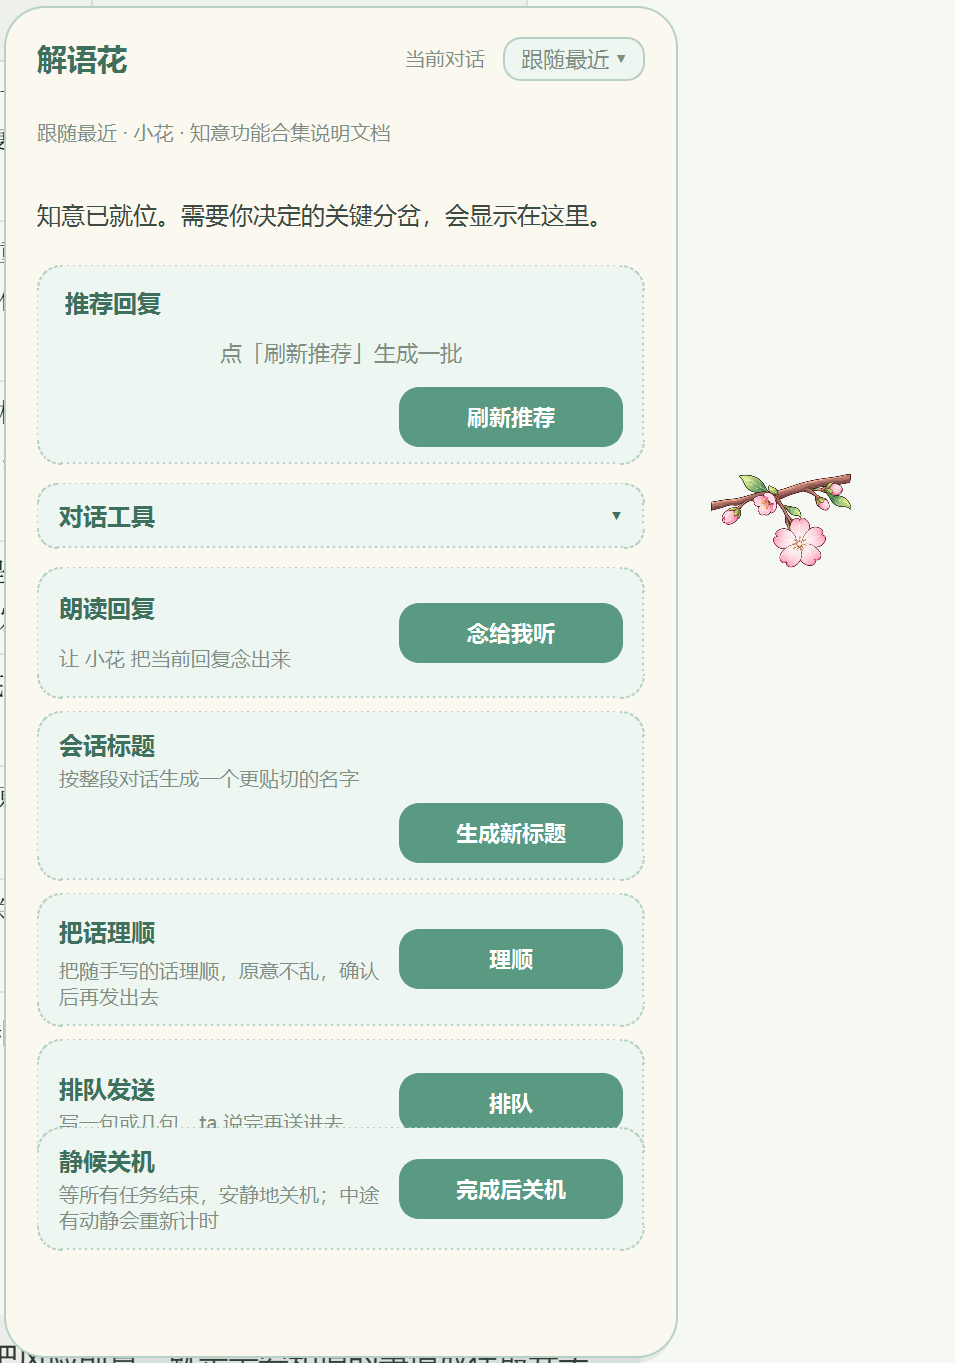
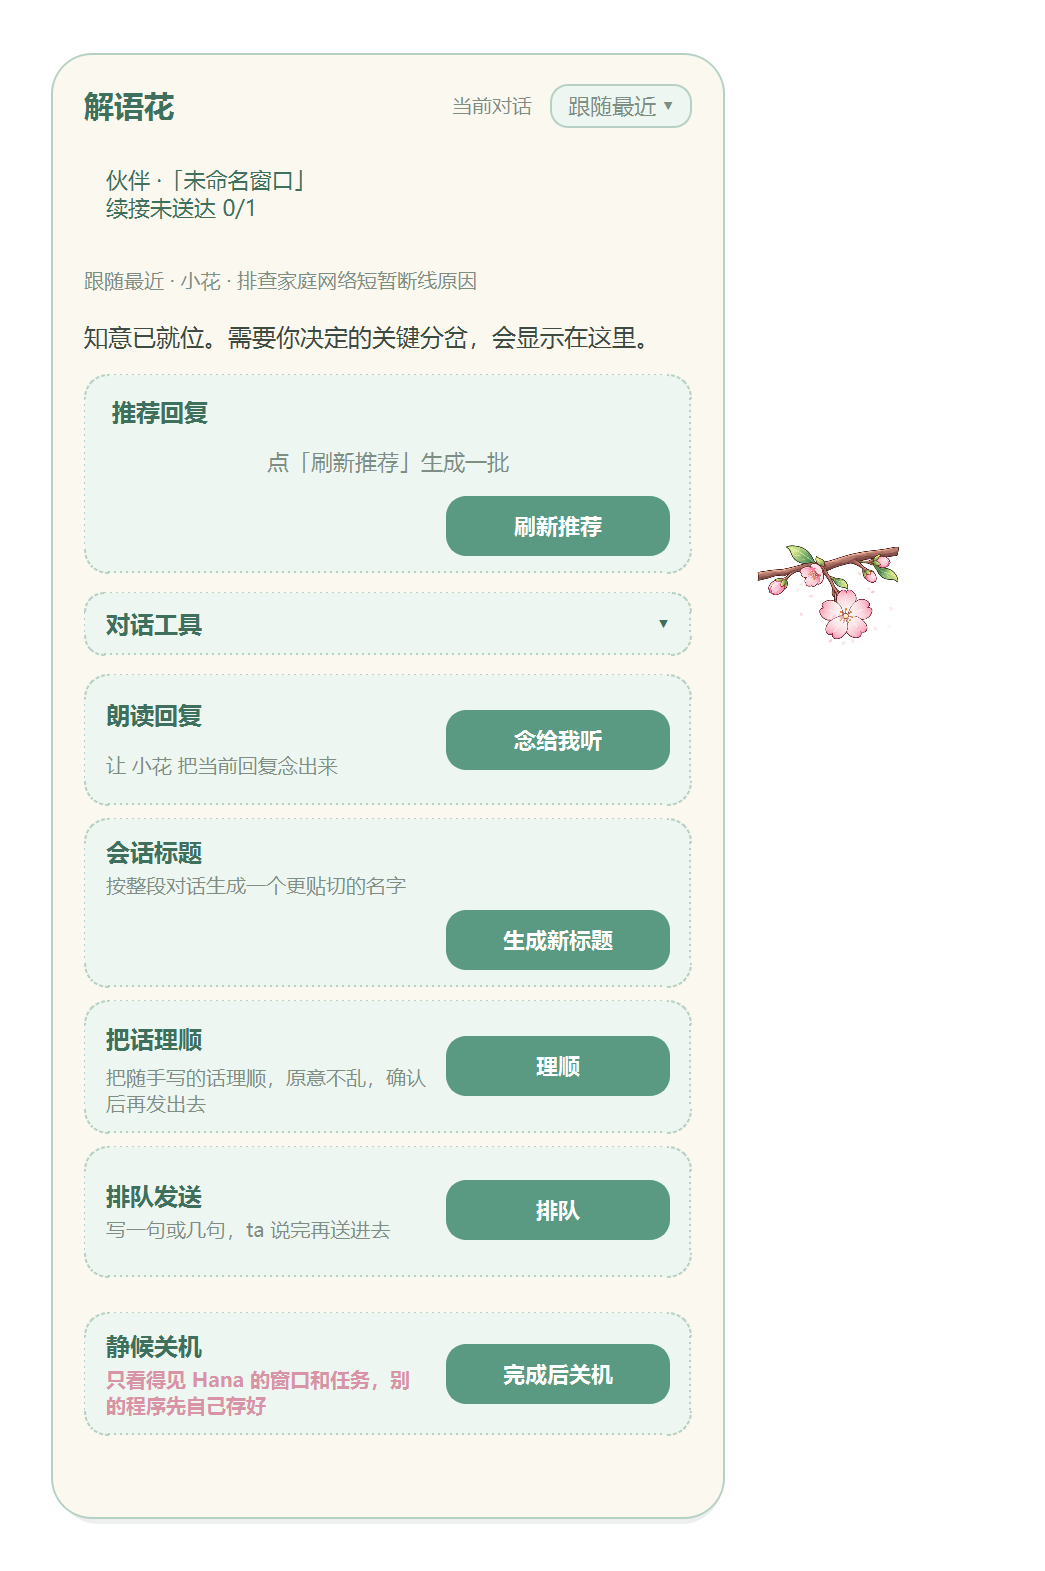
docs(release): 简介与 README 补上应用雷达，替换传音樱与雷达截图
manifest description 加了应用雷达一句；README 新增第 12 节并补入口说明；attachments/03-ball-panel.png 换成新版传音樱面板，新增 08-app-radar.png。附件不进包，manifest 与 README 在包内，包需重打。

diff --git a/README.md b/README.md
@@ -11,7 +11,7 @@
 - **它是个 App，不是插件。** 装完要去「设置 → 应用 → 应用权限 → 解语花·知意」审权限，再把知意加进你想用的伙伴的工具里。不加，伙伴没法主动调它（推荐回复、朗读这种你自己点的不受影响）。
 - **传音樱（桌面上那个球）要另外的运行时。** 本机得有 Python 3 和 PyQt6（`pip install PyQt6`），知意不会替你装，也不会转发整份环境变量。没有它，输入框边上那套面板照常能用。
 - **Ask 这一套只留一份。** 没有球时，对话里的卡片要另装 `zhiyi-ask` 配方，不装会退回 Hana 原生确认卡；反过来，如果你还装着别的 Ask 配方或同类应用，先把它们关掉。两套同时开着，同一件事会被问两遍，你的回答还可能抢到别处去。
-- **数据去向**：API Key 用 Windows 系统加密存本机；朗读的正文会发给你自己填的语音服务商；推荐只读当前这段对话。
+- **数据去向**：API Key 用 Windows 系统加密存本机；朗读的正文会发给你自己填的语音服务商；推荐只读当前这段对话；应用雷达读的是 GitHub 上的市场登记与公开源码，不碰你的对话。
 - **这一版还在实机验收中。** 下面写的是设计意图，以你机器上点出来的结果为准。
 
 ## 这是干什么的
@@ -19,6 +19,8 @@
 Hana 用久了会攒下一堆小摩擦：想不出下一句怎么回、回复太长看不完、窗口运行到一半断了要自己敲一句「继续」、半夜跑完任务电脑还亮着。
 
 这些都不算问题，但每天都在发生。知意就是把这些地方挨个接住的一组小工具。
+
+它还有一面朝外：想给 Hana 添点什么的时候，不用一款款去别处试。应用雷达把市场里的应用摊开给你看，连还在申请里的一起，上架状态、版本、源码都摆在明处，挑中了直接问伙伴。
 
 它不是第二个助手，也不开自己的对话。你所有的话还是在 Hana 里说，知意只在你需要的时候伸一下手，做完就退回去。
 
@@ -33,7 +35,7 @@ Hana 用久了会攒下一堆小摩擦：想不出下一句怎么回、回复太
 两处共用同一份设置和数据，关掉一个不影响另一个。只想要某个功能时，两个门都能进。
 
 <!-- 图：03-ball-panel.png 传音樱主面板展开（推荐回复一栏、对话工具展开、静候关机与断点续接） -->
-<img src="attachments/03-ball-panel.png" alt="传音樱：桌面上那个球掀开的样子，推荐回复、对话工具、静候关机排成一列" width="380">
+<img src="attachments/03-ball-panel.png" alt="传音樱：桌面上那个球掀开的样子，跟的是哪段对话、推荐回复、对话工具、朗读、会话标题、把话理顺、排队发送、静候关机排成一列" width="380">
 
 ## 里面装了什么
 
@@ -50,6 +52,7 @@ Hana 用久了会攒下一堆小摩擦：想不出下一句怎么回、回复太
 | 太长不看 | 回复几百字，只要结论 | 自动加在正文末尾 |
 | 输入框里的图看大 | 贴了图想确认挑没挑错 | 概览页装一次 |
 | 模型和接口 | 想省钱、想快、想用自己买的接口 | 设置页 |
+| 应用雷达 | 想逛市场、怕装上没审过的版本 | 面板「应用雷达」页 |
 
 ## 一件件说
 
@@ -169,6 +172,21 @@ Hana 用久了会攒下一堆小摩擦：想不出下一句怎么回、回复太
 - **快速模型**：概括、起名这类要立刻出结果的小活走这条，尽量不让它想太多。
 - **用自己买的接口跑**：按 OpenAI 兼容的 `/chat/completions` 填地址、模型名、Key。Key 用 Windows 系统加密存在本机，不发给任何人。
 - **朗读接口另算**：MiniMax、OpenAI 兼容、自建 TTS 三种协议，填地址和模型名，MiniMax 还要 GroupId。不想存 Key 就勾「用 Hana 的」，前提是 Hana 里已经配好这个服务商、并且在应用权限里允许了「读取凭据」。
+
+### 12. 想逛市场，又怕挑错：应用雷达
+
+在知意设置页左侧点「应用雷达」。一页把市场上的应用摆出来，上架的和还在申请里的都在，不用来回翻。
+
+- 四个筛子：已安装、已上架、待上架、全部；名字、简介、应用 ID 都能搜。
+- 卡片写清它现在到哪一步：已上架的带版本号；架上那版和待审那版不是同一个版本时，两个都摆出来，谁新谁旧一眼看得见。你自己装过的那张标着「本机 x.x.x」。
+- 点一张卡进去，就着它的简介、版本和公开源码跟伙伴聊：这版改了什么、权限有没有变多、从哪一版升到哪一版。它会把两版源码的差异摆出来，改过的文件、加过的权限落到具体位置。
+- 待审那批只读正在走流程的申请，不重扫整个市场目录，所以刷新快；这一轮读了什么、目录多久前更的，页面底下写着。
+- **上架状态和源码检查是两件事，分开写。** 上架、模型说「没问题」都不代表安全认证。它只读公开源码：不下载安装包、不运行应用、不自动打开外部链接；依赖、二进制文件、真实运行表现都没看过。
+- 读的是 GitHub 公开接口，每小时 60 次额度。嫌不够，在 Hana 设置里给知意填一个只读令牌，额度到 5000 次；令牌只留在这台电脑上，不做任何写操作。
+- 跟伙伴聊的每款应用各存一份本机记录，连同读过的源码快照。不想要就点「清空记录」，只删本机的，不动市场那边的东西。
+- 这一页读不动、或者点了没反应，多半是撞上了额度：过一小时再来，或者先填令牌。
+
+<img src="attachments/08-app-radar.png" alt="应用雷达：四个筛选加搜索框，下面是应用卡片，每张写着上架版本、待审版本和本机装的版本" width="720">
 
 ## 安装
 
